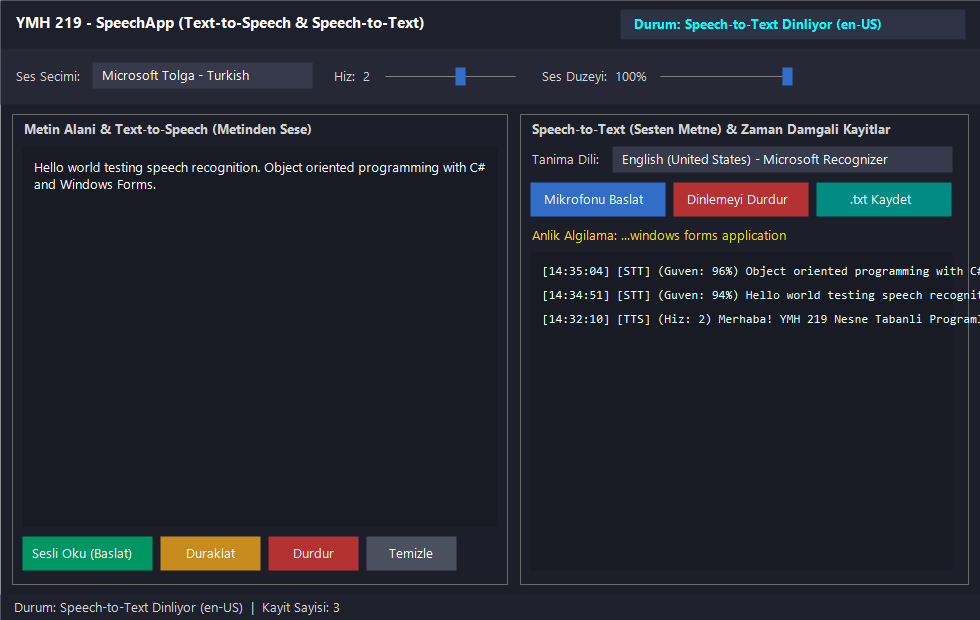
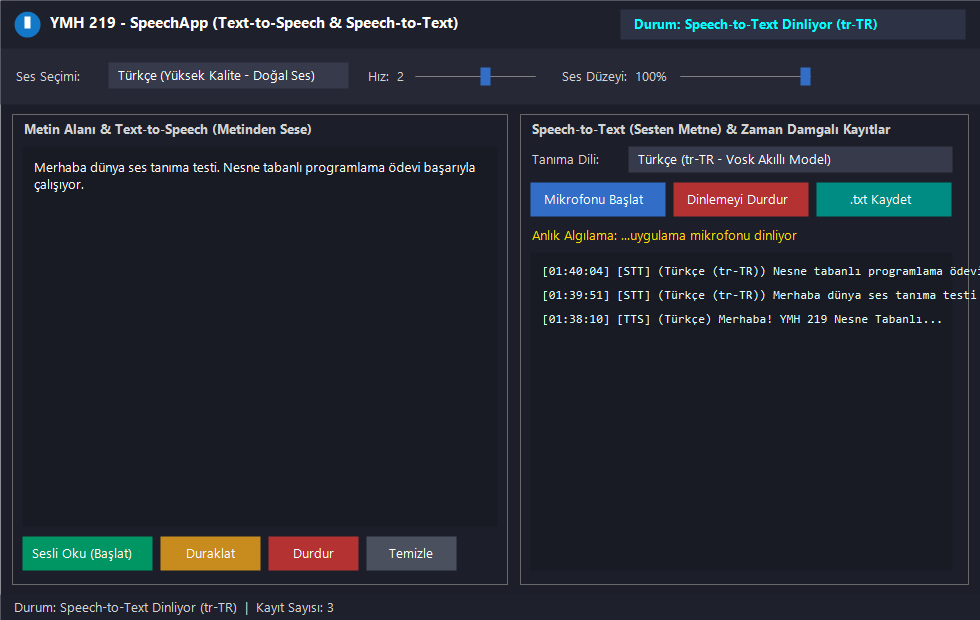
düzeltme: Uygulama ikonu, ComboBox yerleşim düzeltmesi, Türkçe iptal yönetimi ve güncel görseller eklendi

diff --git a/SpeechApp/MainForm.Designer.cs b/SpeechApp/MainForm.Designer.cs
@@ -64,7 +64,7 @@ partial class MainForm
         lblTitle.AutoSize = true;
         pnlHeader.Controls.Add(lblTitle);
 
-        lblActiveMode.Text = "Durum: Hazir (Beklemede)";
+        lblActiveMode.Text = "Durum: Hazır (Beklemede)";
         lblActiveMode.Font = new Font("Segoe UI", 10f, FontStyle.Bold);
         lblActiveMode.ForeColor = Color.LightSkyBlue;
         lblActiveMode.BackColor = Color.FromArgb(45, 50, 68);
@@ -80,27 +80,28 @@ partial class MainForm
         pnlTtsControls.BackColor = Color.FromArgb(38, 40, 54);
         pnlTtsControls.Padding = new Padding(10);
 
-        lblVoice.Text = "Ses Secimi:";
+        lblVoice.Text = "Ses Seçimi:";
         lblVoice.ForeColor = Color.LightGray;
         lblVoice.Location = new Point(12, 22);
         lblVoice.AutoSize = true;
         pnlTtsControls.Controls.Add(lblVoice);
 
-        cmbVoice.Location = new Point(90, 18);
-        cmbVoice.Width = 230;
+        cmbVoice.Location = new Point(108, 18);
+        cmbVoice.Width = 240;
         cmbVoice.DropDownStyle = ComboBoxStyle.DropDownList;
+        cmbVoice.FlatStyle = FlatStyle.Flat;
         cmbVoice.BackColor = Color.FromArgb(55, 58, 74);
         cmbVoice.ForeColor = Color.White;
         pnlTtsControls.Controls.Add(cmbVoice);
 
-        lblRate.Text = "Hiz:";
+        lblRate.Text = "Hız:";
         lblRate.ForeColor = Color.LightGray;
-        lblRate.Location = new Point(340, 22);
+        lblRate.Location = new Point(366, 22);
         lblRate.AutoSize = true;
         pnlTtsControls.Controls.Add(lblRate);
 
-        trkRate.Location = new Point(372, 14);
-        trkRate.Width = 140;
+        trkRate.Location = new Point(402, 14);
+        trkRate.Width = 135;
         trkRate.Minimum = -10;
         trkRate.Maximum = 10;
         trkRate.Value = 0;
@@ -110,18 +111,18 @@ partial class MainForm
 
         lblRateVal.Text = "0";
         lblRateVal.ForeColor = Color.Cyan;
-        lblRateVal.Location = new Point(515, 22);
+        lblRateVal.Location = new Point(542, 22);
         lblRateVal.AutoSize = true;
         pnlTtsControls.Controls.Add(lblRateVal);
 
-        lblVolume.Text = "Ses Duzeyi:";
+        lblVolume.Text = "Ses Düzeyi:";
         lblVolume.ForeColor = Color.LightGray;
-        lblVolume.Location = new Point(555, 22);
+        lblVolume.Location = new Point(580, 22);
         lblVolume.AutoSize = true;
         pnlTtsControls.Controls.Add(lblVolume);
 
-        trkVolume.Location = new Point(635, 14);
-        trkVolume.Width = 140;
+        trkVolume.Location = new Point(672, 14);
+        trkVolume.Width = 135;
         trkVolume.Minimum = 0;
         trkVolume.Maximum = 100;
         trkVolume.Value = 100;
@@ -131,7 +132,7 @@ partial class MainForm
 
         lblVolumeVal.Text = "100%";
         lblVolumeVal.ForeColor = Color.Cyan;
-        lblVolumeVal.Location = new Point(780, 22);
+        lblVolumeVal.Location = new Point(812, 22);
         lblVolumeVal.AutoSize = true;
         pnlTtsControls.Controls.Add(lblVolumeVal);
 
@@ -212,15 +213,16 @@ partial class MainForm
         pnlSttTop.Dock = DockStyle.Top;
         pnlSttTop.Height = 112;
 
-        lblRecognizer.Text = "Tanima Dili:";
+        lblRecognizer.Text = "Tanıma Dili:";
         lblRecognizer.ForeColor = Color.LightGray;
         lblRecognizer.Location = new Point(0, 8);
         lblRecognizer.AutoSize = true;
         pnlSttTop.Controls.Add(lblRecognizer);
 
-        cmbRecognizer.Location = new Point(85, 4);
-        cmbRecognizer.Width = 280;
+        cmbRecognizer.Location = new Point(100, 4);
+        cmbRecognizer.Width = 285;
         cmbRecognizer.DropDownStyle = ComboBoxStyle.DropDownList;
+        cmbRecognizer.FlatStyle = FlatStyle.Flat;
         cmbRecognizer.BackColor = Color.FromArgb(55, 58, 74);
         cmbRecognizer.ForeColor = Color.White;
         pnlSttTop.Controls.Add(cmbRecognizer);

diff --git a/SpeechApp/Services/TextToSpeechService.cs b/SpeechApp/Services/TextToSpeechService.cs
@@ -40,7 +40,7 @@ public class TextToSpeechService : IDisposable
         };
         _sapiSynthesizer.SpeakCompleted += (s, e) =>
         {
-            if (e.Error != null)
+            if (e.Error != null && !e.Cancelled && e.Error is not OperationCanceledException)
                 ErrorOccurred?.Invoke($"Seslendirme hatası: {e.Error.Message}");
             if (!_isOnlineSpeaking)
                 StatusChanged?.Invoke("Ready");

diff --git a/SpeechApp/MainForm.cs b/SpeechApp/MainForm.cs
@@ -13,6 +13,12 @@ public partial class MainForm : Form
     public MainForm()
     {
         InitializeComponent();
+        try
+        {
+            if (!string.IsNullOrEmpty(Environment.ProcessPath))
+                this.Icon = Icon.ExtractAssociatedIcon(Environment.ProcessPath);
+        }
+        catch { }
         BindEvents();
     }
 

diff --git a/README.md b/README.md
@@ -60,17 +60,18 @@ YMH219-SpeechApp/
 ## Temel Özellikler
 
 - **Text-to-Speech (TTS):**
-  - Metin alanındaki (`RichTextBox`) içeriği sesli okuma
+  - Metin alanındaki (`RichTextBox`) Türkçe veya İngilizce içeriği doğal sesle okuma
   - **Başlat**, **Duraklat / Devam Et**, **Durdur** ve **Temizle** kontrolleri
-  - Sistemde yüklü sesler arasından seçim (`ComboBox`)
+  - Yüksek kaliteli Türkçe/İngilizce doğal ses ile yerel `[Yerel SAPI]` sistem sesleri arasında seçim (`ComboBox`)
   - Okuma hızı (`-10` ile `+10`) ve ses düzeyi (`0%` ile `100%`) ayarı
 - **Speech-to-Text (STT):**
-  - Mikrofon üzerinden konuşmayı algılayıp anlık tahmin (`SpeechHypothesized`) ve kesinleşen metni (`SpeechRecognized`) metin alanına aktarma
-  - Mikrofon veya konuşma tanıma dil paketi bulunamadığında uygulamanın çökmesini önleyen anlaşılır hata mesajları
-- **Durum Takibi & Dışa Aktarım:**
-  - Üst rozet ve alt durum çubuğu (`StatusStrip`) üzerinden aktif işlemin (`Hazır`, `Okuyor`, `Duraklatıldı`, `Dinliyor`) anlık gösterimi
-  - Her TTS/STT işleminin zaman damgası ve güven/hız detayıyla listelenmesi
-  - Dönüştürülen metin ve kayıtların `.txt` dosyasına kaydedilmesi
+  - Vosk + NAudio tabanlı **Türkçe (`tr-TR`)** ve İngilizce (`en-US`) çevrimdışı konuşma tanıma
+  - Mikrofon üzerinden konuşmayı algılayıp anlık tahmin (`Anlık Algılama`) ve kesinleşen metni metin alanına aktarma
+  - Mikrofon veya konuşma tanıma servisine erişilemediğinde kullanıcıya anlaşılır Türkçe hata mesajları
+- **Arayüz ve Dışa Aktarım:**
+  - Özel mikrofon/ses dalgası uygulama ikonu (`app.ico`) ve koyu tema arayüz
+  - Üst rozet ve alt durum çubuğu (`StatusStrip`) üzerinden aktif işlemin anlık gösterimi
+  - Her TTS/STT işleminin zaman damgasıyla listelenmesi ve `.txt` dosyasına kaydedilmesi
 
 ---
 
